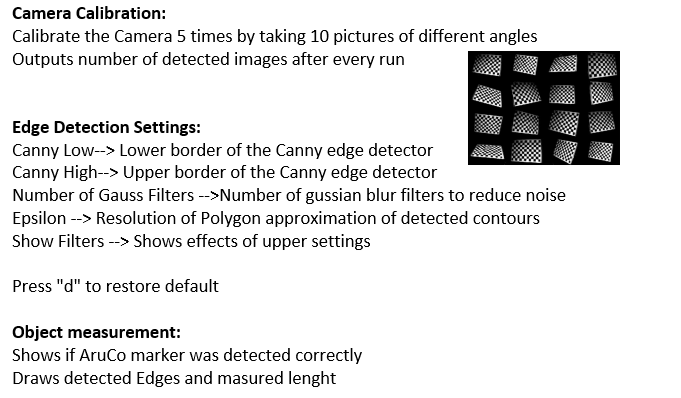
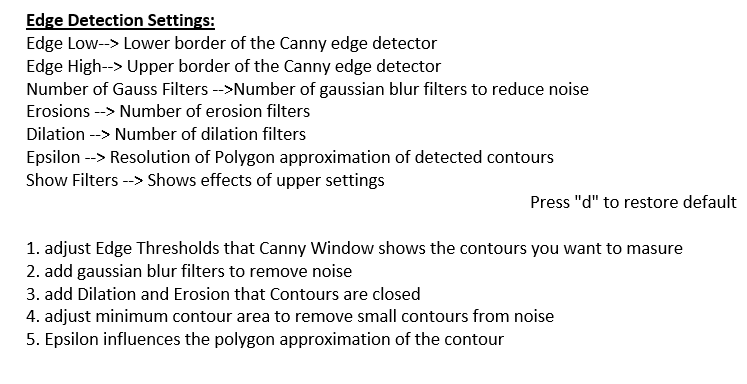
updatet error when no AruCo Marker present updatet help.png

Changed region(s): [[0.0, 0.0, 0.9868, 0.5625], [0.0, 0.5938, 0.9251, 0.7812], [0.0, 0.8125, 0.7401, 0.9688]]

diff --git a/mainR4.py b/mainR4.py
@@ -176,8 +176,8 @@ for img in images:
         cv2.putText(undist, str(pixelsPerMetricUndist), (2200, 200), cv2.FONT_HERSHEY_COMPLEX, 8,
                     (0, 0, 255), thickness=5)  # Draws Pixel/Lengh variable on Image'
     else:
-        cv2.putText(original, "AruCo not correctly Detected!", (20, 100), cv2.FONT_HERSHEY_COMPLEX, 5, (0, 0, 255),
-                    thickness=5)
+        cv2.putText(original, "AruCo not correctly Detected!", (500, 1000), cv2.FONT_HERSHEY_COMPLEX, 14, (0, 0, 255),
+                    thickness=14)
     aruco.drawDetectedMarkers(original, corners)  # Drwas Box around Marker
     rvec, tvec, _ = aruco.estimatePoseSingleMarkers(corners, ArucoSize, meanMTX, meanDIST)  # größße des marker in m
     # rvecZeroDist, tvecZeroDist, _ = aruco.estimatePoseSingleMarkers(corners, 0.053, mtx, distZero)  # größße des marker in m
@@ -186,23 +186,26 @@ for img in images:
         cv2.putText(original, "%.1f cm -- %.0f deg" % ((tvec[0][0][2] / 10), (rvec[0][0][2] / math.pi * 180)),
                     (0, 400),
                     cv2.FONT_HERSHEY_SIMPLEX, 15, (0, 0, 0), thickness=textThikness)
+        ################################################Select ROI###############################
+        undist, shapeROI = utils.cropImage(undist)  # Cropps out the ROI
+        cv2.destroyWindow("ROI selector")
+
+        scaleFactor1 = shapeROI[0] / 1000  # Scales ROI image in a way that it always fits on FHD Screen
+        scaleFactor2 = shapeROI[1] / 1850
+        if scaleFactor1 > scaleFactor2:
+            scaleFactor = scaleFactor1
+        else:
+            scaleFactor = scaleFactor2
+        #############################################################################
         if abs(rvec[0][0][2] / math.pi * 180) > 3:
             cv2.putText(original, "Angle should be below 3 degrees!", (0, 260), cv2.FONT_HERSHEY_SIMPLEX, textSize,
                         (0, 0, 255), thickness=textThikness)
-        # print(rvec)
-        # print(tvec)
     else:
         print("No Marker found")
+        cv2.imshow("Error",cv2.resize(original,(1920,1080)))
+        cv2.waitKey(5000)
+        break
 
-    undist,shapeROI = utils.cropImage(undist)   #Cropps out the ROI
-    cv2.destroyWindow("ROI selector")
-
-    scaleFactor1 = shapeROI[0] / 1000  # Scales ROI image in a way that it always fits on FHD Screen
-    scaleFactor2 = shapeROI[1] / 1850
-    if scaleFactor1 > scaleFactor2:
-        scaleFactor = scaleFactor1
-    else:
-        scaleFactor = scaleFactor2
 
     while True:# Loop for every Image
         imgShowCopy = original.copy()

diff --git a/ContourUtils.py b/ContourUtils.py
@@ -5,8 +5,22 @@ def midpoint(ptA, ptB):
 	return ((ptA[0,0] + ptB[0,0]) * 0.5, (ptA[0,1] + ptB[0,1]) * 0.5)
 
 
-def getContours(img, cThr=[100, 150], gaussFilters = 1, showFilters=False, minArea=100,epsilon = 0.01, Cornerfilter=0, draw=False):
-    minArea = minArea*10
+def get_contours(img, cThr=[100, 150], gaussFilters = 1,dialations = 6,errsoions = 2, showFilters=False, minArea=100, epsilon = 0.01, Cornerfilter=0, draw=False):
+    """
+    Beschreibung
+
+    :param img:
+    :param cThr:
+    :param gaussFilters:
+    :param showFilters:
+    :param minArea:
+    :param epsilon:
+    :param Cornerfilter:
+    :param draw:
+    :return:
+    :rtype: bool
+    """
+    minArea = minArea/80
     imgContours = img
     #imgContoursCalc = cv2.UMat(img)
     imgGray = cv2.cvtColor(imgContours, cv2.COLOR_BGR2GRAY)
@@ -15,8 +29,8 @@ def getContours(img, cThr=[100, 150], gaussFilters = 1, showFilters=False, minAr
     if showFilters: cv2.imshow("Gauss",cv2.resize(imgGray,(1280,720)))
     imgCanny = cv2.Canny(imgGray, cThr[0], cThr[1])
     kernel = np.ones((3, 3))
-    imgDial = cv2.dilate(imgCanny, kernel, iterations=6)
-    imgThre = cv2.erode(imgDial, kernel, iterations=2)
+    imgDial = cv2.dilate(imgCanny, kernel, iterations=dialations)
+    imgThre = cv2.erode(imgDial, kernel, iterations=errsoions)
     if showFilters: cv2.imshow('Canny', cv2.resize(imgThre,(1280,720)))
     contours, hiearchy = cv2.findContours(imgThre, cv2.RETR_EXTERNAL,cv2.CHAIN_APPROX_SIMPLE)
     finalCountours = []
@@ -33,10 +47,9 @@ def getContours(img, cThr=[100, 150], gaussFilters = 1, showFilters=False, minAr
             else:
                 finalCountours.append([len(approx), area, approx, bbox, i])
     finalCountours = sorted(finalCountours, key=lambda x: x[1], reverse=True)
-    #print('nowdraw')
+
     if draw:
         for con in finalCountours:
-            #print('contour draw')
             cv2.drawContours(imgContours, con[4], -1, (0, 0, 255), 3)
 
     if not showFilters:
